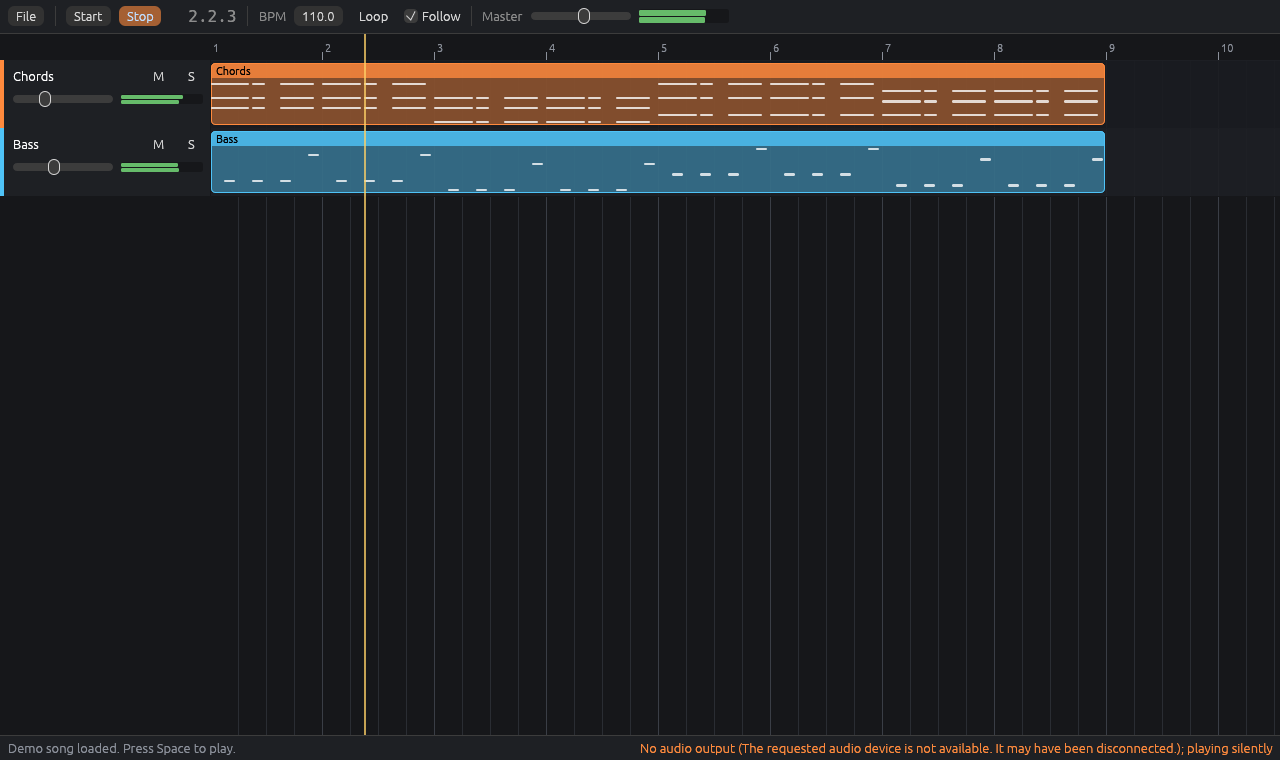
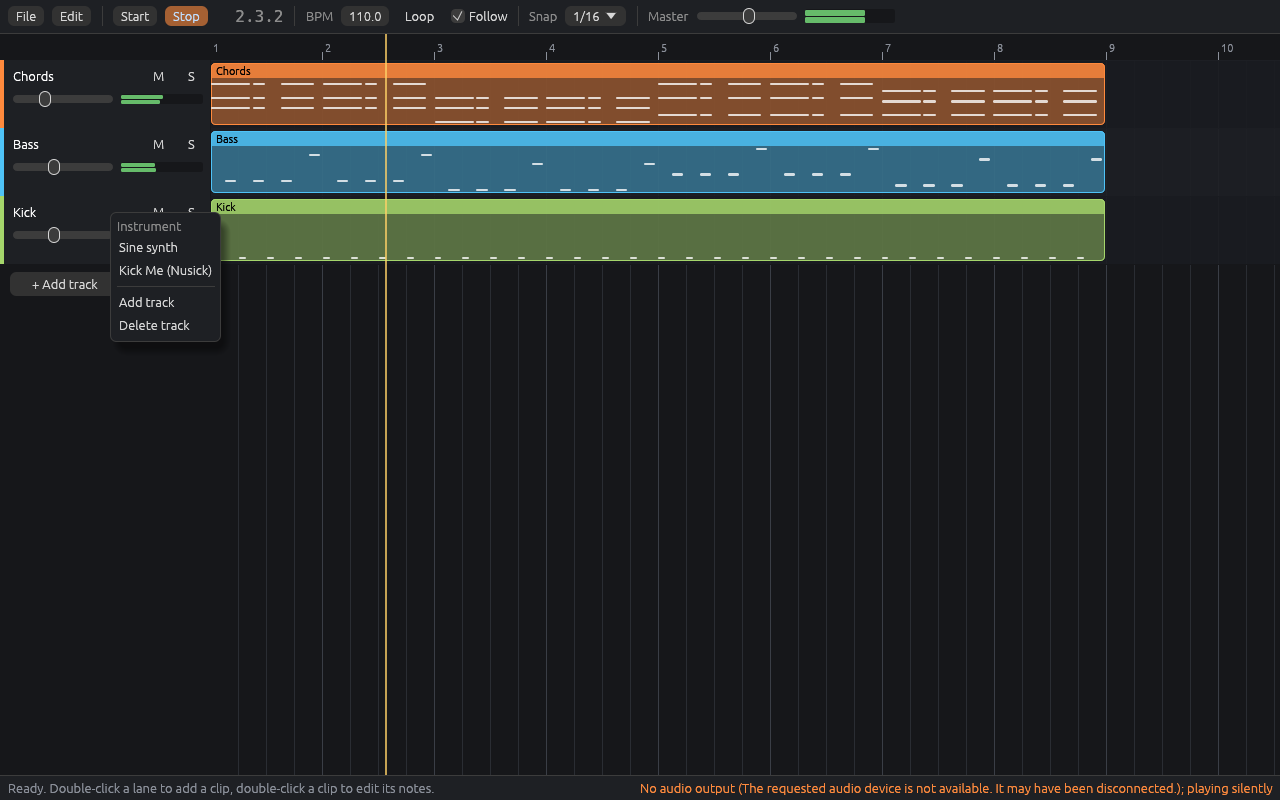
Rust: Nusick's Kick Me as a built-in instrument (step 4)
- nusick-dsp (MIT, no dependencies) as a git dependency pinned to a
  commit; Kick wraps KickVoice as an Instrument (any note triggers a
  velocity-scaled hit, monophonic, no unsafe and no plugin boundary).
- Built-in id "kick"; the demo song gets a Kick track.
- Right-click a track header to choose its instrument.

Claude-Session: https://claude.ai/code/session_01MCeedDCCjDKqRsj9ESc4AK

diff --git a/crates/audiozero-engine/src/synth.rs b/crates/audiozero-engine/src/synth.rs
@@ -12,11 +12,74 @@ pub trait Instrument: Send {
     fn render(&mut self, left: &mut [f32], right: &mut [f32]);
 }
 
+/// Built-in instruments: project id and display name.
+pub const BUILTINS: [(&str, &str); 2] = [("sine", "Sine synth"), ("kick", "Kick Me (Nusick)")];
+
 /// Creates a built-in instrument by its project id.
 pub fn create_builtin(id: &str) -> Option<Box<dyn Instrument>> {
     match id {
         "sine" => Some(Box::new(SineSynth::new())),
+        "kick" => Some(Box::new(Kick::new())),
         _ => None,
+    }
+}
+
+/// Nusick's Kick Me voice as a built-in instrument. Any note triggers a hit, scaled by its
+/// velocity; the voice is monophonic, so a new hit restarts it, and note-offs are ignored
+/// because a kick always plays out.
+pub struct Kick {
+    voice: nusick_dsp::KickVoice,
+    params: nusick_dsp::KickParams,
+    gain: f32,
+}
+
+impl Kick {
+    pub fn new() -> Self {
+        let params = nusick_dsp::KickParams::default();
+        Self {
+            voice: nusick_dsp::KickVoice::new(48_000.0, &params),
+            params,
+            gain: 1.0,
+        }
+    }
+}
+
+impl Default for Kick {
+    fn default() -> Self {
+        Self::new()
+    }
+}
+
+impl Instrument for Kick {
+    fn prepare(&mut self, sample_rate: f64) {
+        let rate = if sample_rate.is_finite() && sample_rate > 0.0 {
+            sample_rate as f32
+        } else {
+            48_000.0
+        };
+        self.voice = nusick_dsp::KickVoice::new(rate, &self.params);
+    }
+
+    fn note_on(&mut self, _pitch: u8, velocity: f32) {
+        self.gain = velocity.clamp(0.0, 1.0);
+        self.voice.trigger();
+    }
+
+    fn note_off(&mut self, _pitch: u8) {}
+
+    fn all_notes_off(&mut self) {
+        self.voice.reset();
+    }
+
+    fn render(&mut self, left: &mut [f32], right: &mut [f32]) {
+        if !self.voice.is_active() {
+            return;
+        }
+        for (l, r) in left.iter_mut().zip(right.iter_mut()) {
+            let sample = self.voice.next() * self.gain;
+            *l += sample;
+            *r += sample;
+        }
     }
 }
 
@@ -156,6 +219,22 @@ mod tests {
         let (mut l, mut r) = (vec![0.0; 48_000], vec![0.0; 48_000]);
         synth.render(&mut l, &mut r);
         assert!(peak(&l[47_000..]) == 0.0, "voice has finished releasing");
+    }
+
+    #[test]
+    fn nusick_kick_hits_and_decays() {
+        let mut kick = create_builtin("kick").expect("kick is built in");
+        kick.prepare(48_000.0);
+        let (mut l, mut r) = (vec![0.0; 48_000], vec![0.0; 48_000]);
+        kick.note_on(36, 1.0);
+        kick.render(&mut l, &mut r);
+        assert!(peak(&l[..2400]) > 0.3, "a loud first 50 ms");
+        assert!(peak(&l) < 1.0, "never past full scale");
+        assert!(peak(&l[40_000..]) < 0.01, "decayed after a second");
+        let (mut l, mut r) = (vec![0.0; 2400], vec![0.0; 2400]);
+        kick.note_on(36, 0.25);
+        kick.render(&mut l, &mut r);
+        assert!(peak(&l) < 0.3, "velocity scales the hit");
     }
 
     #[test]

diff --git a/crates/audiozero-app/src/gui/arrangement.rs b/crates/audiozero-app/src/gui/arrangement.rs
@@ -6,7 +6,7 @@
 //! - Hold Alt while dragging to ignore the grid.
 
 use super::{App, ClipRef, meter, theme};
-use audiozero_engine::{Clip, Project};
+use audiozero_engine::{Clip, Device, Project, synth::BUILTINS};
 use eframe::egui::{
     self, Align2, Color32, CornerRadius, CursorIcon, FontId, Pos2, Rect, Sense, Stroke, StrokeKind,
     Vec2,
@@ -43,6 +43,7 @@ enum ClipAction {
 enum TrackAction {
     Delete(usize),
     Add,
+    SetInstrument(usize, &'static str),
 }
 
 /// Converts between beats and screen x for the current scroll and zoom.
@@ -197,6 +198,13 @@ impl App {
                     Sense::click(),
                 )
                 .context_menu(|ui| {
+                    ui.label("Instrument");
+                    for (id, name) in BUILTINS {
+                        if ui.button(name).clicked() {
+                            track_action = Some(TrackAction::SetInstrument(index, id));
+                        }
+                    }
+                    ui.separator();
                     if ui.button("Add track").clicked() {
                         track_action = Some(TrackAction::Add);
                     }
@@ -228,6 +236,11 @@ impl App {
         match track_action {
             Some(TrackAction::Add) => self.add_track(),
             Some(TrackAction::Delete(index)) => self.delete_track(index),
+            Some(TrackAction::SetInstrument(index, id)) => self.edit(|p| {
+                if let Some(track) = p.tracks.get_mut(index) {
+                    track.instrument = Some(Device::Builtin { id: id.into() });
+                }
+            }),
             None => {}
         }
 

diff --git a/crates/audiozero-engine/src/demo.rs b/crates/audiozero-engine/src/demo.rs
@@ -8,6 +8,15 @@ pub fn project() -> Project {
     let roots: [u8; 4] = [33, 29, 36, 31];
     let sine = || Some(Device::Builtin { id: "sine".into() });
 
+    let kick_notes = (0..32)
+        .map(|beat| Note {
+            pitch: 36,
+            start: f64::from(beat),
+            length: 0.25,
+            velocity: 0.9,
+        })
+        .collect();
+
     let mut chord_notes = Vec::new();
     let mut bass_notes = Vec::new();
     for bar in 0..8u32 {
@@ -70,6 +79,20 @@ pub fn project() -> Project {
                     length: 32.0,
                     muted: false,
                     notes: bass_notes,
+                }],
+                ..Default::default()
+            },
+            // Nusick's Kick Me, built in.
+            Track {
+                name: "Kick".into(),
+                volume: 0.8,
+                instrument: Some(Device::Builtin { id: "kick".into() }),
+                clips: vec![Clip {
+                    name: "Kick".into(),
+                    start: 0.0,
+                    length: 32.0,
+                    muted: false,
+                    notes: kick_notes,
                 }],
                 ..Default::default()
             },

diff --git a/crates/audiozero-engine/src/lib.rs b/crates/audiozero-engine/src/lib.rs
@@ -3,7 +3,8 @@
 //! - [`project`]: the project model, its JSON format, and the limits every project is held to.
 //! - [`control`]: drives an engine on the audio thread from the UI thread, without locks.
 //! - [`engine`]: renders a project to audio, sample-accurately, without allocating on the audio thread.
-//! - [`synth`]: the [`Instrument`](synth::Instrument) trait and built-in instruments.
+//! - [`synth`]: the [`Instrument`](synth::Instrument) trait and built-in instruments, including
+//!   Nusick's Kick Me.
 //! - [`demo`]: a short built-in song.
 //! - [`wav`]: a minimal WAV writer for export.
 

diff --git a/README.md b/README.md
@@ -89,11 +89,12 @@ AudioZero is moving to Rust so it no longer depends on JUCE. The Rust workspace 
 
 ![The Rust AudioZero window playing the demo song](docs/screenshots/rust-app.png)
 
-*The Rust app playing the built-in demo song. It was captured on a machine with no sound card, so the status bar says it's playing silently.*
+*The Rust app playing the built-in demo song, with a track's instrument menu open. It was captured on a machine with no sound card, so the status bar says it's playing silently.*
 
 What works so far:
 
 - **The window:** the arrangement view (tracks, clips with a preview of their notes, bar ruler, playhead), play/stop, tempo, loop, snap, master volume and per-track mute, solo and volume with level meters.
+- **Instruments:** a sine synth and Nusick's **Kick Me**, built in from [Nusick](https://github.com/noisyloop/Nusick)'s `nusick-dsp` crate (no plugin needed). Right-click a track's header to choose its instrument. The demo song has a Kick track.
 - **Clip editing:** click to select, drag to move (also onto another track), drag the right edge to resize, double-click an empty lane to add a clip, and right-click for Edit notes, Duplicate, Mute and Delete. Add tracks with **+ Add track** and remove them by right-clicking a track's header.
 - **Piano roll:** double-click a clip to edit its notes:
   - click to add a note, or drag from an empty spot to draw one at the length you want;
@@ -126,7 +127,7 @@ cargo run --release -p audiozero-app -- --scan                # list installed C
 cargo test --workspace                                        # all tests
 ```
 
-On Linux, building needs the ALSA headers (`libasound2-dev`), and running the window needs an OpenGL driver and `libxkbcommon-x11-0`. Desktop installs normally already have them. The direct dependencies are `serde`/`serde_json` (project files), `rtrb` (the lock-free command queue), `cpal` (audio output) and `eframe`/`egui` (the window).
+On Linux, building needs the ALSA headers (`libasound2-dev`), and running the window needs an OpenGL driver and `libxkbcommon-x11-0`. Desktop installs normally already have them. The direct dependencies are `nusick-dsp` (Nusick's DSP, pinned to a commit), `serde`/`serde_json` (project files), `rtrb` (the lock-free command queue), `cpal` (audio output) and `eframe`/`egui` (the window).
 
 ## Continuous integration
 
